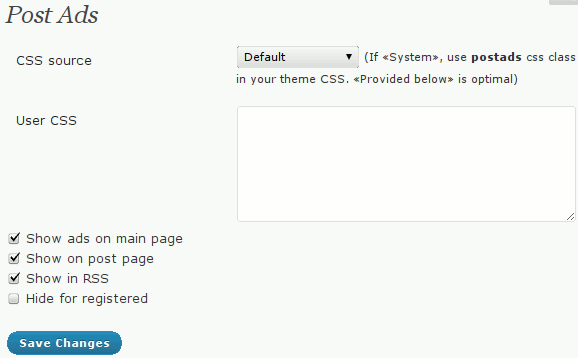
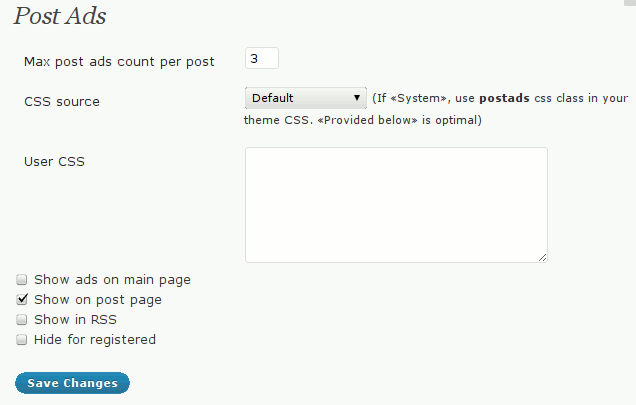
added new screenshot, bugfixes & code cleanups

diff --git a/postads/postads.php b/postads/postads.php
@@ -3,7 +3,7 @@
 Plugin Name: PostAds
 Plugin URI: http://bobrik.name/code/wordpress/postads/
 Description: Add and manage ads of your posts
-Version: 0.5
+Version: 0.6
 Author: Ivan Babrou <ibobrik@gmail.com>
 Author URI: http://bobrik.name/
 
@@ -27,12 +27,18 @@ Boston, MA 02111-1307, USA.
 
 function postads_install()
 {
-	update_option('postads_css_source', 'default');
-	update_option('postads_own_css', '');
-	update_option('postads_rss', 'disabled');
-	update_option('postads_single', 'enabled');
-	update_option('postads_index', 'disabled');
-	update_option('postads_hide_registered', 'enabled');
+	$defaults = array(
+		'postads_css_source' => 'default',
+		'postads_own_css' => '',
+		'postads_rss' => 'disabled',
+		'postads_single' => 'enabled',
+		'postads_index' => 'disabled',
+		'postads_hide_registered' => 'enabled',
+		'postads_max_per_post' => 5
+	);
+	foreach ($defaults as $option => $value)
+	if (!get_option($option))
+		update_option($option, $value);
 }
 
 function postads_post_options()
@@ -101,21 +107,30 @@ function postads_need_to_show()
 	if (empty($ads))
 		return false;
 	if (is_feed())
-		if (($custom_display_options && get_post_meta($post->ID, 'postads_rss', true) != 'enabled') || get_option('postads_rss') != 'enabled')
+		if (!check_post_option($custom_display_options, 'postads_rss'))
 			return false;
 		else
 			return true;
 	if (is_home())
-		if (($custom_display_options && get_post_meta($post->ID, 'postads_index', true) != 'enabled') || get_option('postads_index') != 'enabled')
+		if (!check_post_option($custom_display_options, 'postads_index'))
 			return false;
 		else
 			return true;
 	if (is_single())
-		if (($custom_display_options && get_post_meta($post->ID, 'postads_single', true) != 'enabled') || get_option('postads_single') != 'enabled')
+		if (!check_post_option($custom_display_options, 'postads_single'))
 			return false;
 		else
 			return true;
 	return true;
+}
+
+function check_post_option($custom_display_options, $option)
+{
+	// returns false to show ads, true to hide
+	if (($custom_display_options && get_post_meta($post->ID, $option, true) != '' && get_post_meta($post->ID, $option, true) != 'enabled') || get_option($option) != 'enabled')
+		return false;
+	else
+		return true;
 }
 
 function postads_styles()
@@ -159,11 +174,11 @@ function postads_custom_column($column_name)
 	global $post;
 	if ($column_name == 'postads')
 	{
-		$text = get_post_meta($post->ID, 'postads_text', true);
+		$text = str_replace("\r", '', get_post_meta($post->ID, 'postads_text', true));
 		if (!trim($text))
 			$count = 0;
 		else
-			$count = count(explode("\n\r\n", $text));
+			$count = count(explode("\n\n", $text));
 		if (get_post_meta($post->ID, 'postads_ads_count_type', true) == 'custom')
 			$maxcount = get_post_meta($post->ID, 'postads_ads_count', true);
 		else
@@ -174,7 +189,7 @@ function postads_custom_column($column_name)
 			$color = '#3465a4';
 		else
 			$color = '#4e9a06';
-		echo '<p style="text-align:center;color:'.$color.'">';
+		echo '<p style="color:'.$color.'">';
 		echo 'Current: '.$count.', Max: '.$maxcount;
 		echo '</p>';
 	}
@@ -203,7 +218,7 @@ function postads_config() {
 		<tr valign="baseline">
 			<th scope="row">Max post ads count per post</th>
 			<td>
-				<input type="text" size="2" name="postads_max_per_post" value="<?php echo get_option('postads_max_per_post'); ?>" /> (If «System», use <strong>postads</strong> css class in your theme CSS. «Provided below» is optimal)
+				<input type="text" size="2" name="postads_max_per_post" value="<?php echo get_option('postads_max_per_post'); ?>" />
 			</td>
 		</tr>
 		<tr valign="baseline">
